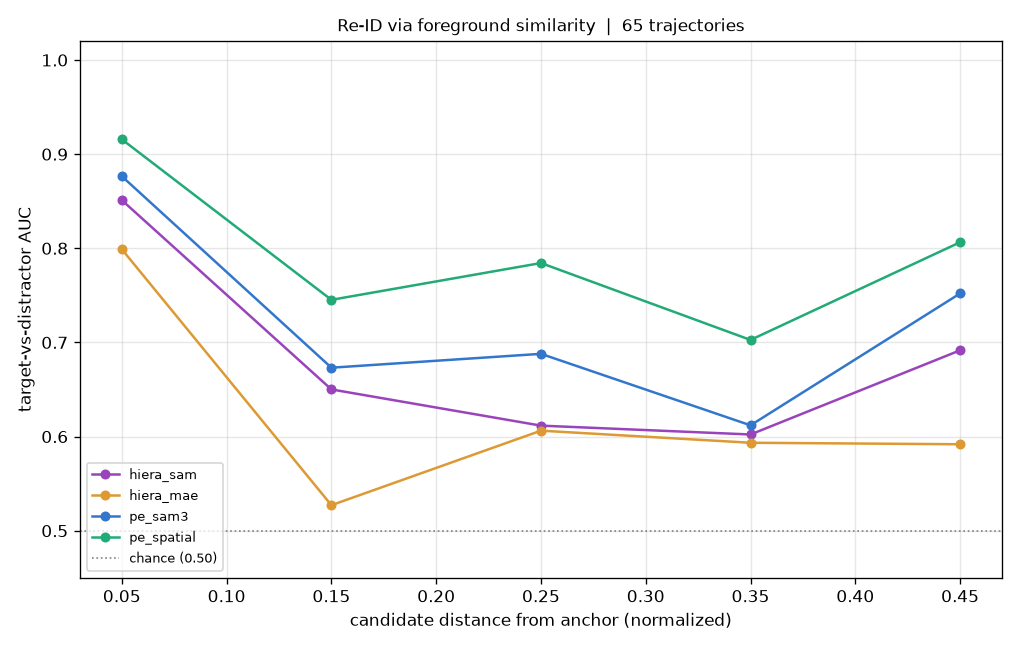
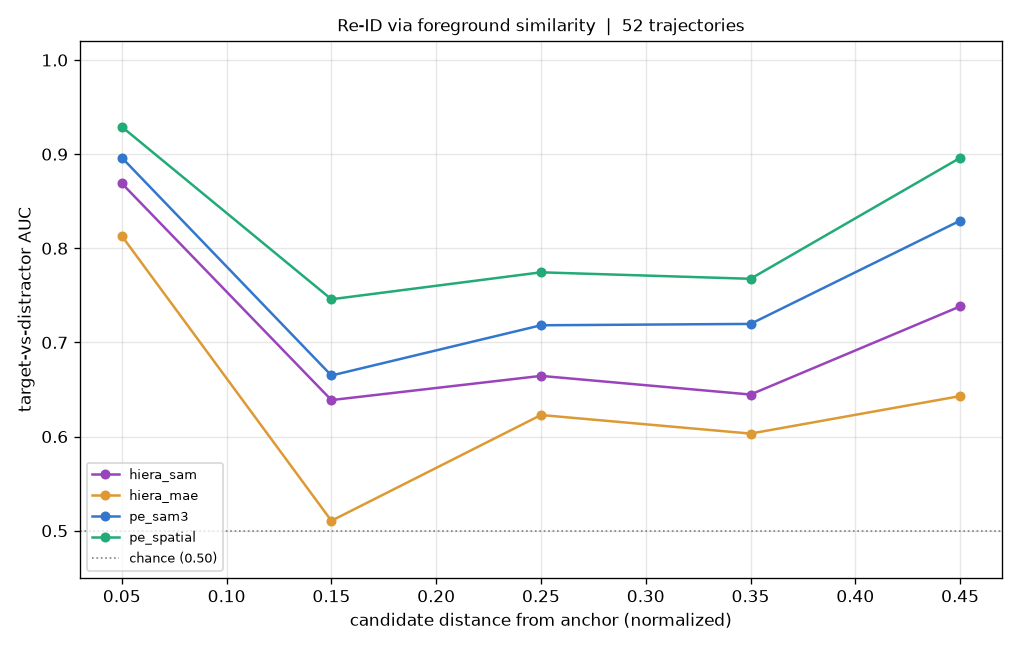
fixed experiment

diff --git a/pe_reid_longrange.py b/pe_reid_longrange.py
@@ -20,9 +20,9 @@ from sklearn.metrics import roc_auc_score
 from sklearn.model_selection import train_test_split
 from tqdm import tqdm
 
-from src.offline_training.dataset_encoders import crop_around_masks, anchor_size_pixels, load_dataset_encoders, _norm, _patch_masks, HALF
+from src.offline_training.dataset_encoders import crop_around_masks, load_dataset_encoders, _norm, _patch_masks, HALF
 from src.offline_training.dataset_labels import load_clean_boxes_by_frame, _box_center as box_center
-from src.utils.load_bboxes import convert_bbox, load_bboxes
+from src.utils.load_bboxes import convert_bbox
 from create_anchor_dataset import anchor_trajectory_index, slice_detection_data_for_tracker
 
 
@@ -104,17 +104,17 @@ def box_prompt_masks(sam, frame, boxes):
 
 
 @torch.inference_mode()
-def entity_tokens(sam, backbones, frame, boxes, floor, crop_size):
-    """Return each box's (foreground, background) tokens for every backbone, cropped at the anchor scale.
-    Returns a list aligned to boxes (each entry {backbone: (fg, bg)}), or None if any box's mask is empty."""
+def entity_tokens(sam, backbones, frame, boxes, crop_size):
+    """Return each box's (foreground, background) tokens for every backbone, cropped tightly around its
+    own mask. Returns a list aligned to boxes (each entry {backbone: (fg, bg)}), or None if any mask is empty."""
 
     box_masks = box_prompt_masks(sam, frame, boxes)
     if any((box_mask > 0).sum() == 0 for box_mask in box_masks):
         return None
 
-    # Crop every box out of the (repeated) frame in one call, floored at the anchor scale.
+    # Crop every box out of the (repeated) frame in one call, each at its own mask's natural scale.
     frame_per_box = np.repeat(frame[None], len(box_masks), axis=0)
-    box_crops, box_crop_masks = crop_around_masks(frame_per_box, np.stack(box_masks).astype(np.float32), crop_size, 0.25, floor)
+    box_crops, box_crop_masks = crop_around_masks(frame_per_box, np.stack(box_masks).astype(np.float32), crop_size, 0.25)
 
     tokens_by_box = [{} for _ in boxes]
     for backbone_name, encode in backbones.items():
@@ -146,11 +146,19 @@ def distance(a, b):
     return ((a[0] - b[0]) ** 2 + (a[1] - b[1]) ** 2) ** 0.5
 
 
-def nearest_distractors(target_center, clean_boxes, n_distractors):
+def to_pixel(box, width, height, scale):
+    """Box centre in pixels at the common working resolution -- un-normalized, and isotropic in x and y
+    (both scaled the same), unlike the per-axis normalized coordinates."""
+
+    cx, cy = box_center(box)
+    return cx * width * scale, cy * height * scale
+
+
+def nearest_distractors(target_center, clean_boxes, n_distractors, width, height, scale):
     """The n_distractors clean-person boxes closest to the target this frame -- hard negatives that
     share the target's local background and scale, so the comparison isolates appearance."""
 
-    return sorted(clean_boxes, key=lambda box: distance(box_center(box), target_center))[:n_distractors]
+    return sorted(clean_boxes, key=lambda box: distance(to_pixel(box, width, height, scale), target_center))[:n_distractors]
 
 
 def evaluate_trajectory(sam, backbones, detection_data, trajectory, config):
@@ -163,11 +171,7 @@ def evaluate_trajectory(sam, backbones, detection_data, trajectory, config):
     if anchor_index is None:
         return
 
-    # The anchor's amodal box (full extent, incl. occluded parts) sets the crop scale for the trajectory.
     visible_json = Path(config.detection_data.visible_directory) / f"{video}.json"
-    amodal_json = Path(config.detection_data.amodal_directory) / f"{video}.json"
-    anchor_amodal = load_bboxes(str(amodal_json), str(visible_json), person, use_amodal=True)[anchor_index]
-
     warmup = slice_detection_data_for_tracker(detection_data, anchor_index)
     window = slice(warmup, warmup + config.max_frames)
     frames = detection_data.frames[window]
@@ -177,26 +181,29 @@ def evaluate_trajectory(sam, backbones, detection_data, trajectory, config):
     if len(frames) < 2 or float(boxes[0][2]) <= 0:
         return
 
-    # Anchor query: the target's foreground tokens at frame 0, cropped at the anchor's amodal scale.
-    anchor_box = anchor_amodal if float(anchor_amodal[2]) > 0 else boxes[0]
-    floor = anchor_size_pixels(anchor_box, frames[0].shape)
-    anchor = entity_tokens(sam, backbones, frames[0], [boxes[0]], floor, config.crop_size)
+    # Anchor query: the target's foreground tokens at frame 0, cropped tightly around its own mask.
+    anchor = entity_tokens(sam, backbones, frames[0], [boxes[0]], config.crop_size)
     if anchor is None:
         return
     query = anchor[0]
-    anchor_center = box_center(boxes[0])
     clean_boxes = load_clean_boxes_by_frame(visible_json, person)
 
+    # Distances are measured in pixels at the common 1024 working resolution (un-normalized, isotropic).
+    height, width = frames[0].shape[:2]
+    px_scale = 1024.0 / max(width, height)
+    anchor_center = to_pixel(boxes[0], width, height, px_scale)
+
     for t in range(1, len(frames), config.stride):
-        target_center = box_center(boxes[t])
-        distractors = nearest_distractors(target_center, clean_boxes.get(int(frame_indices[t]), []), config.n_distractors)
+        target_center = to_pixel(boxes[t], width, height, px_scale)
+        distractors = nearest_distractors(target_center, clean_boxes.get(int(frame_indices[t]), []),
+                                          config.n_distractors, width, height, px_scale)
         if occlusions[t] > 0.5 or float(boxes[t][2]) <= 0 or not distractors:
             continue
 
         # Candidates are the target (index 0) then its nearest distractors, each binned by its distance from the anchor.
         candidate_boxes = [boxes[t]] + distractors
-        candidate_dists = [distance(box_center(box), anchor_center) for box in candidate_boxes]
-        candidates = entity_tokens(sam, backbones, frames[t], candidate_boxes, floor, config.crop_size)
+        candidate_dists = [distance(to_pixel(box, width, height, px_scale), anchor_center) for box in candidate_boxes]
+        candidates = entity_tokens(sam, backbones, frames[t], candidate_boxes, config.crop_size)
         if candidates is None:
             continue
 
@@ -228,6 +235,19 @@ def binned_auc(samples, edges, min_bin_samples):
     return [auc(b) if len(b) >= min_bin_samples else np.nan for b in bins]
 
 
+def quantile_edges(results, n_bins):
+    """Equal-count distance-bin edges from the pooled candidate distances (identical across backbones),
+    so each bin holds the same number of samples. None until there are enough samples to bin."""
+
+    samples = next(iter(results.values()), [])
+    if len(samples) < n_bins:
+        return None
+    distances = np.array([s[0] for s in samples])
+    edges = np.quantile(distances, np.linspace(0, 1, n_bins + 1))
+    edges[-1] += 1e-9                                    # make the top edge inclusive
+    return edges
+
+
 def diagnose(results, edges):
     """Print, per backbone and bin, the target/distractor counts and mean similarity, so the AUC shape
     can be read off directly: a dip is either the gap collapsing (dis_sim rising to tgt_sim) or the bin
@@ -249,14 +269,20 @@ def plot_auc(results, spec, edges, colors, min_bin_samples, n_traj, metric="fore
     """Plot one figure spec (its backbones' AUC vs candidate distance from anchor) and save the figure and curves."""
 
     curves = {name: binned_auc(results[name], edges, min_bin_samples) for name in spec.group if name in results}
-    centers = (edges[:-1] + edges[1:]) / 2
+
+    # Place each point at its bin's median distance (bins are equal-count, so unevenly spaced in distance).
+    ref = next((results[name] for name in spec.group if name in results), [])
+    ref_distances = np.array([s[0] for s in ref])
+    centers = [np.median(ref_distances[(ref_distances >= lo) & (ref_distances < hi)])
+               if ((ref_distances >= lo) & (ref_distances < hi)).any() else (lo + hi) / 2
+               for lo, hi in zip(edges[:-1], edges[1:])]
 
     figure, axis = plt.subplots(figsize=(8.5, 5.4))
     for name, curve in curves.items():
         axis.plot(centers, curve, marker="o", markersize=5, color=colors.get(name), label=name)
     axis.axhline(0.5, color="gray", linestyle=":", linewidth=1, label="chance (0.50)")
 
-    axis.set_xlabel("candidate distance from anchor (normalized)")
+    axis.set_xlabel("candidate distance from anchor (pixels @1024, equal-count bins)")
     axis.set_ylabel("target-vs-distractor AUC")
     axis.set_title(f"Re-ID via {metric}  |  {n_traj} trajectories", fontsize=10)
     axis.set_ylim(0.45, 1.02)
@@ -297,7 +323,6 @@ def run_reid(config: DictConfig):
     backbones = load_backbones(config.sam3_vision_config, config.sam3_input)
     print(f"backbones: {list(backbones)}")
 
-    edges = np.array(config.spatial_edges, dtype=float)
     colors = OmegaConf.to_container(config.colors)
     trajectories = test_trajectories(person_path, config.n_traj)
     results_fg, results_fgbg, done = load_checkpoint(config.checkpoint)
@@ -315,6 +340,9 @@ def run_reid(config: DictConfig):
                 results_fgbg[name].append((candidate_distance, label, fgbg))
         done.add(key)
 
+        edges = quantile_edges(results_fg, config.n_bins)
+        if edges is None:
+            continue
         for spec in config.figures:
             plot_auc(results_fg, spec, edges, colors, config.min_bin_samples, len(done))
         plot_auc(results_fgbg, config.fgbg_figure, edges, colors, config.min_bin_samples, len(done), metric="FG - BG")
